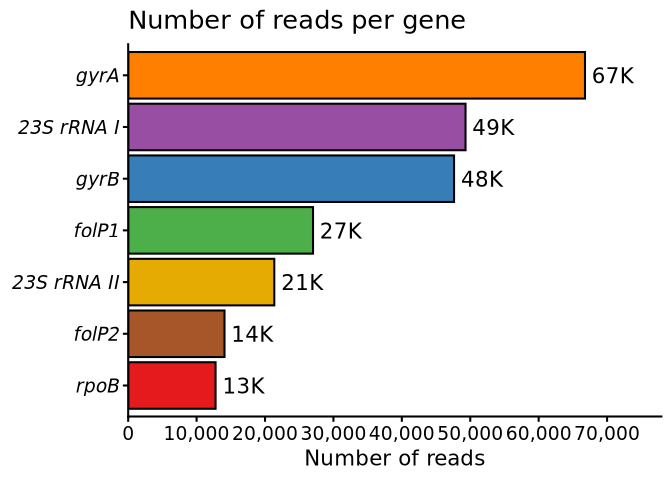
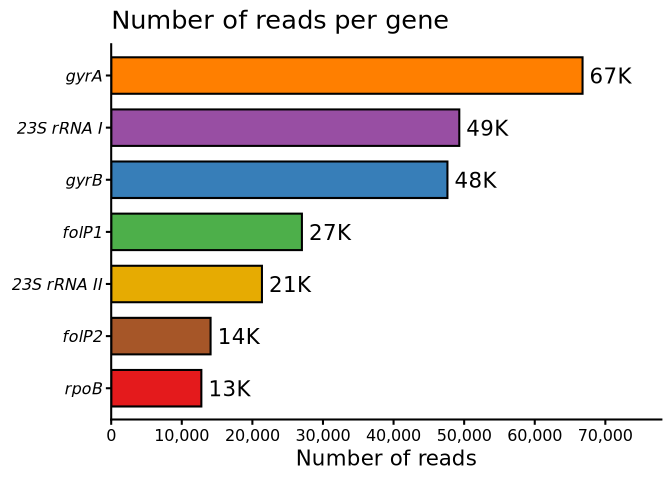
Added few comments

Changed region(s): [[0.0, 0.0938, 1.0, 0.9688], [0.1562, 0.0, 0.6875, 0.0625]]

diff --git a/exploratory/14-07-2026-amplicon-stats.md b/exploratory/14-07-2026-amplicon-stats.md
@@ -1,8 +1,19 @@
-Untitled
+Mean read counts and size
 ================
 2026-07-14
 
-### Generates
+### Generates working dataframe
+
+To work with tidy-compatible data, the .txt file generated from the
+scripts needs to be transformed into long format, in terms of metrics
+values, and then, again, converting it into wider format setting each
+metric name as columns.
+
+Each sample is renamed to a reader-friendly format – no one will
+understand our lab sample codes. Gene names were recoded, too.
+
+Finally, this work-friendly dataframe is converted into a .csv file for
+further analysis.
 
 ``` r
 df <- read.delim(here("data/raw_data/alignments/Stats/coverage.txt"),
@@ -33,12 +44,16 @@ relabeled_ampstats <- ampstats %>%
             levels = unique(ampstats$SAMPLE),
             labels = sample_names
         ),
-        GENE = factor(
-            GENE, 
-            levels = unique(ampstats$GENE), 
-            labels = gene_names
-        )
+        GENE = factor(GENE, levels = unique(ampstats$GENE), labels = gene_names)
     )
+
+# Create a new directory to add all processed files
+processed_files_path = "data/processed_data"
+dir.create(here(processed_files_path), showWarnings = F)
+
+write.csv(relabeled_ampstats,
+          here(file.path(processed_files_path, "amplicon_stats.csv")),
+          row.names = F)
 
 glimpse(relabeled_ampstats)
 ```
@@ -54,21 +69,10 @@ glimpse(relabeled_ampstats)
     ## $ `FPCOV-1` <dbl> 100, 100, 100, 100, 100, 100, 100, 100, 100, 100, 100, 100, …
     ## $ READSIZE  <dbl> 435, 517, 468, 303, 580, 366, 516, 458, 512, 459, 380, 568, …
 
-``` r
-# Create a new directory to add all processed files
-processed_files_path = "data/processed_data"
-dir.create(here(processed_files_path), showWarnings = F)
-
-write.csv(relabeled_ampstats,
-          here(file.path(processed_files_path, "amplicon_stats.csv")),
-          row.names = F)
-```
-
 ### Total reads per gene
 
 To understand how well each amplicon performed on this assay, we can sum
-up their number of reads from all samples and sort from the best to the
-worst.
+up their number of reads and sort from the best to the worst.
 
 ``` r
 fill_genes <- c(
@@ -90,7 +94,7 @@ relabeled_ampstats %>%
         fill = GENE
     )) +
     labs(title = "Number of reads per gene", x = "Number of reads", y = NULL) +
-    geom_col(colour = "black", show.legend = F) +
+    geom_col(width = 0.7, colour = "black", show.legend = F) +
     geom_text(aes(
         label = scales::label_number(
             accuracy = 1,
@@ -110,17 +114,17 @@ relabeled_ampstats %>%
 
 ![](14-07-2026-amplicon-stats_files/figure-gfm/unnamed-chunk-3-1.png)<!-- -->
 
-In general, all amplicons generated more than 10K reads each. However,
-rpoB, and folP2 generated the fewer number of reads (13K and 14K,
-respectively). In this case, we need to observe the results of other
-amplicon statistics to infer about the sequencing quality of these two
-amplicons.
+All amplicons generated more than 10K reads each. However, *rpoB*, and
+*folP2* generated the lowest reads counts (13K and 14K, respectively).
+Thus, it is neded to observe the results of other amplicon statistics
+(such as depth and distribution) to understand the performance of these
+two amplicons.
 
 ### Number of reads per sample
 
 The number of reads is related to the coverage of each gene. Getting
 this count by samples tell about the quality of bacilli DNA after ExoV
-treatment.
+treatment (and also about the quality of our multiplex PCR).
 
 ``` r
 set.seed(20230407)
@@ -157,6 +161,7 @@ relabeled_ampstats %>%
     annotation_logticks(sides = "l", outside = T) +
     theme(
         legend.position = c(0.85, 0.25),
+        legend.background = element_rect(fill = "transparent", colour = NA),
         legend.text.position = "left",
         legend.text = element_text(face = "italic"),
         axis.text.y = element_text(margin = margin(r = unit(10, "mm"))),
@@ -171,7 +176,14 @@ relabeled_ampstats %>%
 ![](14-07-2026-amplicon-stats_files/figure-gfm/unnamed-chunk-4-1.png)<!-- -->
 
 Sample 5 and 7 got the lowest number of reads. Maybe it is more
-informative to know the number of reads per gene in each sample
+informative to know the number of reads per gene in each sample Also, it
+could be nice to know the bacilli index of these two samples.
+
+### Mean read size and coverage
+
+Considering that we want to know the variants in these genes, one should
+know about the coverage of each amplicon that our sequencing could
+recover.
 
 ``` r
 ampsize <- c(
@@ -191,7 +203,8 @@ relabeled_ampstats %>%
         MEAN_READSIZE = mean(READSIZE),
         SD_READSIZE = sd(READSIZE),
         MEAN_COVERAGE = mean(COVERAGE) * 100,
-        SD_COVERAGE = sd(COVERAGE) * 100
+        SD_COVERAGE = sd(COVERAGE) * 100,
+        .groups = "drop"
     ) %>%
     mutate(
         READSIZE_LABEL = sprintf("%.1f ± %.1f", MEAN_READSIZE, SD_READSIZE),
@@ -412,3 +425,10 @@ folP2
 </tbody>
 
 </table>
+
+Overall, more than 70% of all amplicons – except *folP1* – could be
+recovered. Maybe, *folP1* mean read size was biased by its number of
+reads in samples 2 and 5. In both, *folP1* was the least sequenced gene.
+Again, the bacilli index of these samples can provide interesting
+insights. Could *M. leprae* genome be degraded in low bacillary index
+samples?